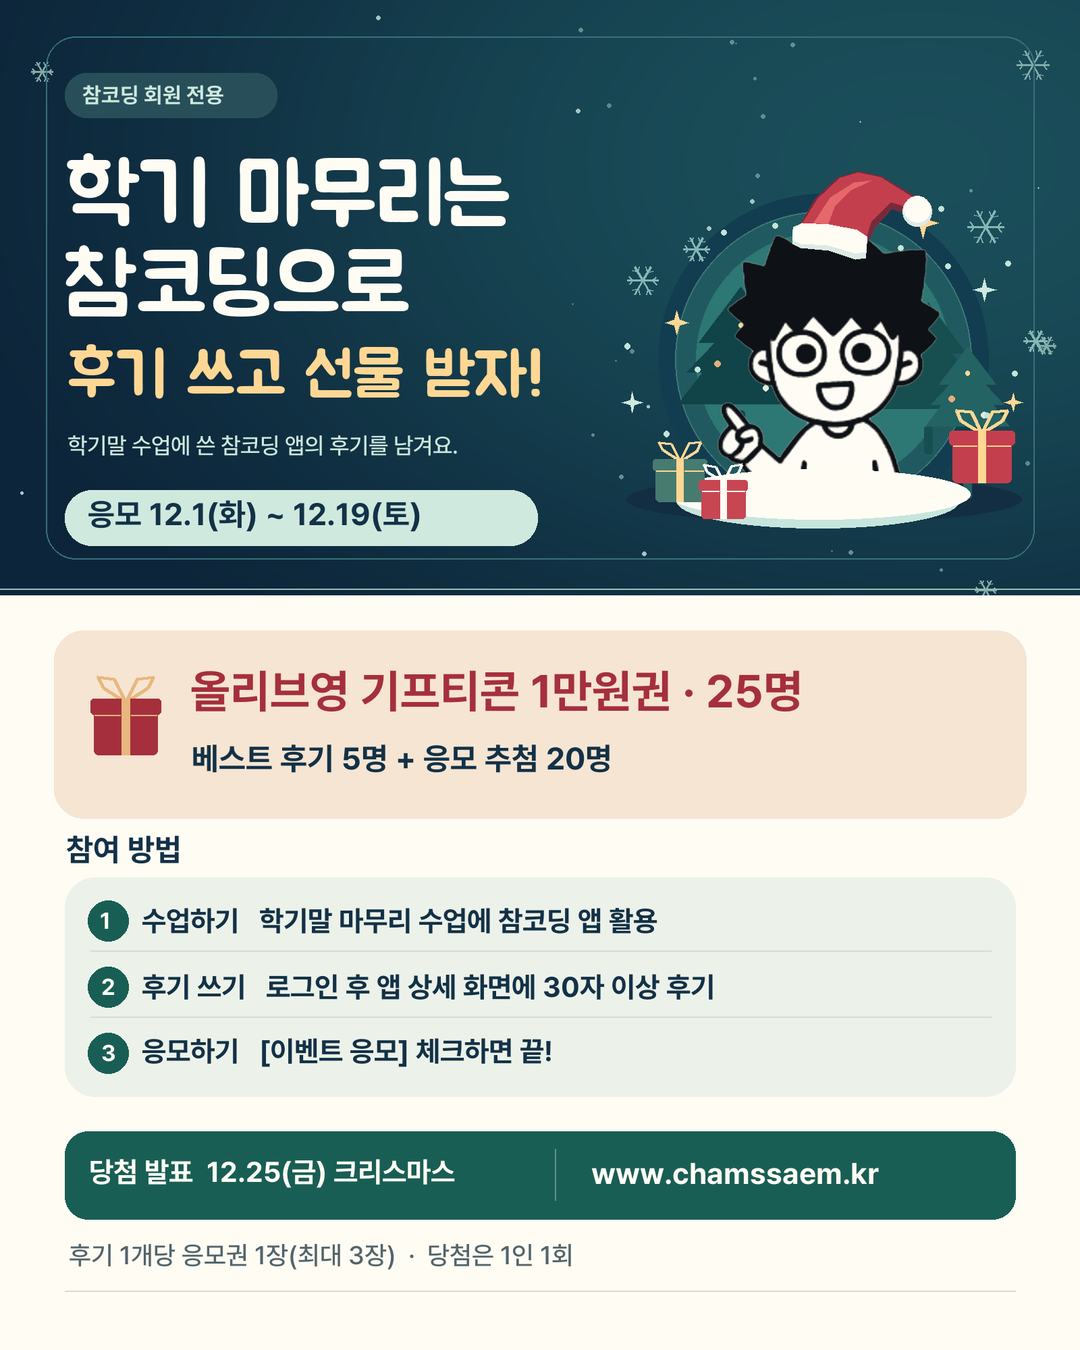
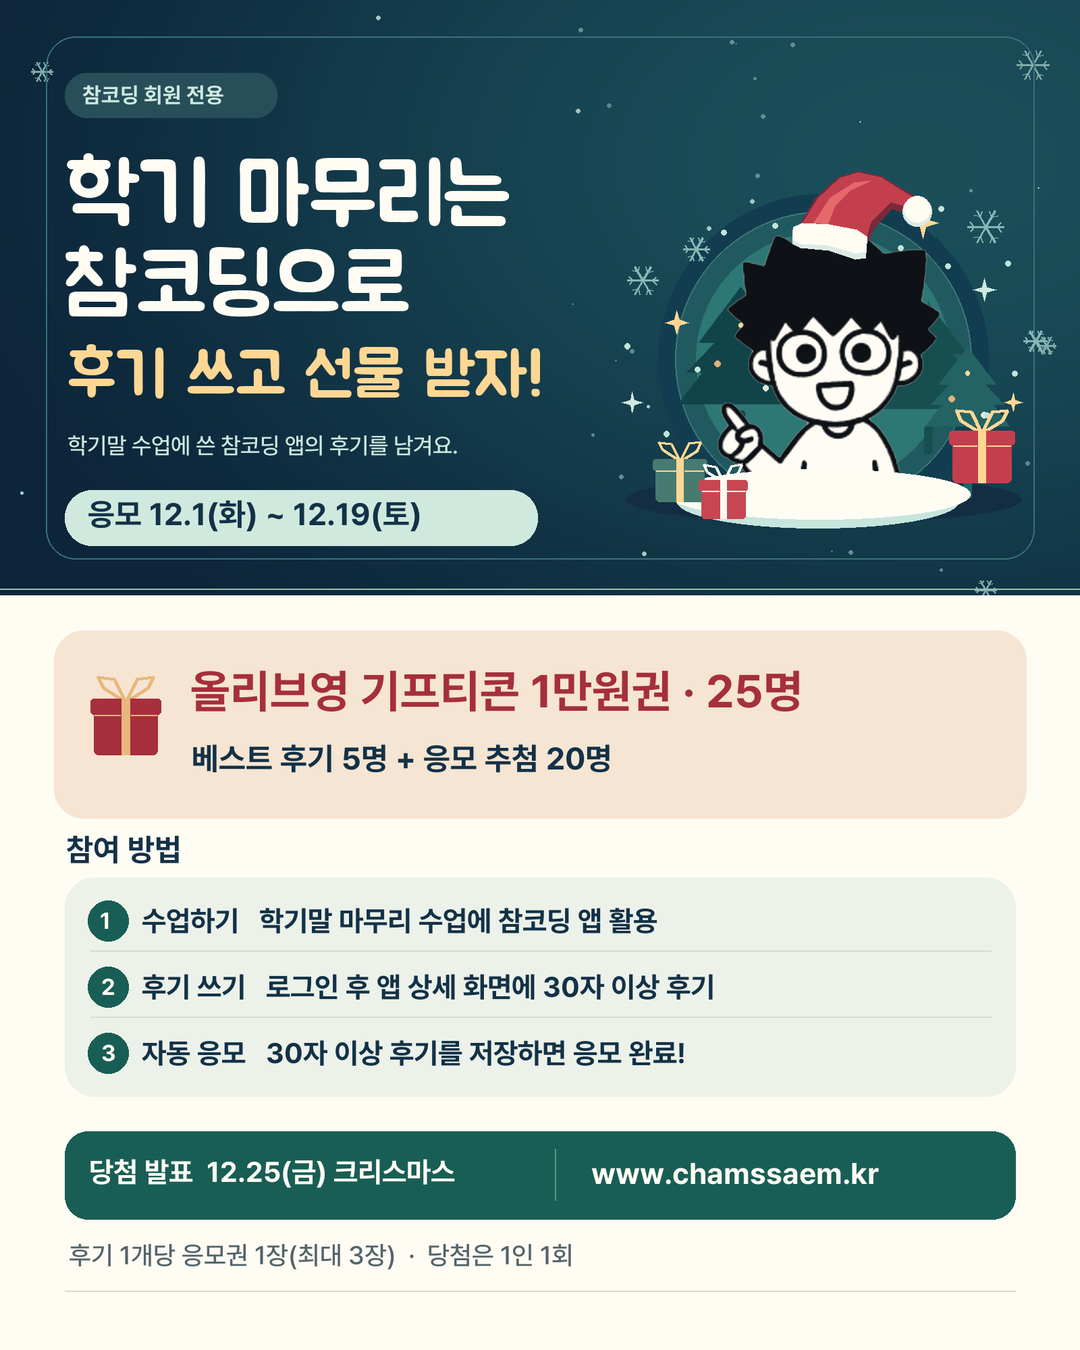
Clarify automatic event entry and add daily popup dismissal

Changed region(s): [[0.1222, 0.7467, 0.6417, 0.8089]]

diff --git a/index.html b/index.html
@@ -614,12 +614,15 @@ body{padding-left:var(--side)}
 <dialog class="event-dialog" id="semesterReviewDialog" aria-labelledby="semesterReviewTitle" aria-describedby="semesterReviewNotice">
   <header class="event-dialog-header">
     <h2 id="semesterReviewTitle">학기말 수업 후기 이벤트</h2>
-    <form method="dialog"><button class="btn line" type="submit" autofocus>닫기</button></form>
   </header>
-  <p class="event-dialog-notice" id="semesterReviewNotice">이벤트 응모 기능은 준비 중입니다.</p>
+  <p class="event-dialog-notice" id="semesterReviewNotice">응모 기간에 로그인하고 30자 이상 후기를 남기면 <strong>자동으로 응모됩니다.</strong></p>
   <section class="event-dialog-content" aria-label="이벤트 안내">
-    <img data-src="/assets/events/semester-review-2026-popup.png" width="1080" height="1350" alt="참코딩 회원 전용. 올리브영 기프티콘 1만원권을 베스트 후기 5명과 추첨 20명에게 드립니다. 12월 1일부터 19일까지 학기말 수업에 참코딩 앱을 활용하고, 로그인 후 앱 상세에서 30자 이상 후기를 작성해 이벤트 응모를 체크하세요. 후기당 응모권 1장, 최대 3장, 1인 1회 당첨. 12월 25일 발표.">
+    <img data-src="/assets/events/semester-review-2026-popup.png?v=2" width="1080" height="1350" alt="참코딩 회원 전용. 올리브영 기프티콘 1만원권을 베스트 후기 5명과 추첨 20명에게 드립니다. 12월 1일부터 19일까지 학기말 수업에 참코딩 앱을 활용하고, 로그인 후 앱 상세에서 30자 이상 후기를 저장하면 자동 응모됩니다. 후기당 응모권 1장, 최대 3장, 1인 1회 당첨. 12월 25일 발표.">
   </section>
+  <form class="event-dialog-footer" method="dialog">
+    <label><input id="semesterReviewHideToday" type="checkbox"> 오늘 하루 동안 보지 않기</label>
+    <button class="btn line" type="submit" autofocus>닫기</button>
+  </form>
 </dialog>
 <div class="dim" id="dim"></div>
 <div class="sheet app-sheet" id="appSheet" role="dialog" aria-modal="true"></div>
@@ -838,21 +841,39 @@ if (!matchMedia('(prefers-reduced-motion:reduce)').matches)
 const hero = $('#hero'), semesterReviewDialog = $('#semesterReviewDialog');
 const semesterReviewDeadline = Date.parse('2026-12-20T00:00:00+09:00');
 const semesterReviewSessionKey = 'semester-review-2026-popup-seen';
+const semesterReviewHiddenKey = 'semester-review-2026-popup-hidden-day';
+const semesterReviewCalendar = new Intl.DateTimeFormat('ko-KR', {timeZone:'Asia/Seoul', dateStyle:'short'});
+const semesterReviewDay = () => semesterReviewCalendar.format(new Date());
+const semesterReviewHideToday = $('#semesterReviewHideToday');
 let heroTimer = 0, heroIndex = 0;
 let semesterReviewTrigger = null;
 
+function semesterReviewHiddenToday(day){
+  try { return localStorage.getItem(semesterReviewHiddenKey) === day; }
+  catch { return false; }
+}
+semesterReviewHideToday.addEventListener('change', ()=>{
+  try {
+    if (semesterReviewHideToday.checked) localStorage.setItem(semesterReviewHiddenKey, semesterReviewDay());
+    else localStorage.removeItem(semesterReviewHiddenKey);
+  } catch { /* 저장이 막혀도 팝업은 닫을 수 있다. */ }
+});
 function showSemesterReview(trigger = null){
   if (Date.now() >= semesterReviewDeadline || semesterReviewDialog.open) return;
+  const day = semesterReviewDay();
   semesterReviewTrigger = trigger;
+  semesterReviewHideToday.checked = semesterReviewHiddenToday(day);
   const poster = semesterReviewDialog.querySelector('img');
   if (!poster.hasAttribute('src')) poster.src = poster.dataset.src;
   semesterReviewDialog.showModal();
-  try { sessionStorage.setItem(semesterReviewSessionKey, '1'); } catch { /* 저장이 막혀도 팝업은 열 수 있다. */ }
+  try { sessionStorage.setItem(semesterReviewSessionKey, day); } catch { /* 저장이 막혀도 팝업은 열 수 있다. */ }
 }
 function showFirstVisitSemesterReview(){
   // 인증 메일과 관리자 설정은 자체 대화상자에서 처리한다.
   if (location.hash || new URLSearchParams(location.search).has('email-confirmed')) return;
-  try { if (sessionStorage.getItem(semesterReviewSessionKey)) return; } catch { /* 저장소가 차단된 경우 */ }
+  const day = semesterReviewDay();
+  if (semesterReviewHiddenToday(day)) return;
+  try { if (sessionStorage.getItem(semesterReviewSessionKey) === day) return; } catch { /* 저장소가 차단된 경우 */ }
   showSemesterReview();
 }
 semesterReviewDialog.addEventListener('click', e=>{
@@ -894,9 +915,9 @@ function renderHero(){
     </article>`);
   const hasSemesterReview = Date.now() < semesterReviewDeadline;
   if (hasSemesterReview) slides.unshift(`
-    <button type="button" class="hero-slide event-slide" data-semester-review aria-haspopup="dialog" aria-controls="semesterReviewDialog" aria-label="학기말 수업 후기 이벤트 자세히 보기">
-      <img src="/assets/events/semester-review-2026-banner.png" width="1200" height="300" alt="">
-      <span class="event-slide-caption" aria-hidden="true"><b>올리브영 기프티콘 1만원권 · 25명</b><span>12.1(화) ~ 12.19(토) · 자세히 보기</span></span>
+    <button type="button" class="hero-slide event-slide" data-semester-review aria-haspopup="dialog" aria-controls="semesterReviewDialog" aria-label="학기말 수업 후기 이벤트 · 30자 이상 후기 자동 응모 · 자세히 보기">
+      <img src="/assets/events/semester-review-2026-banner.png?v=2" width="1200" height="300" alt="">
+      <span class="event-slide-caption" aria-hidden="true"><b>올리브영 기프티콘 1만원권 · 25명</b><span>30자 이상 후기 자동 응모</span><span>12.1(화) ~ 12.19(토) · 자세히 보기</span></span>
       <span class="event-slide-cta" aria-hidden="true">이벤트 자세히 보기</span>
     </button>`);
   hero.hidden = !slides.length;

diff --git a/chamcoding-ui.css b/chamcoding-ui.css
@@ -529,20 +529,40 @@ html:has(.event-dialog[open]) { overflow: hidden; }
 }
 .event-dialog[open] { display: flex; flex-direction: column; }
 .event-dialog::backdrop { background: rgb(17 24 39 / .65); }
-.event-dialog-header {
-  display: flex;
-  align-items: center;
-  justify-content: space-between;
-  gap: .75rem;
-  padding: .75rem 1rem;
-}
+.event-dialog-header { flex: none; padding: .75rem 1rem; }
 .event-dialog-header h2 { font-size: 1rem; }
-.event-dialog-header .btn { height: 2.25rem; white-space: nowrap; }
-.event-dialog-content { overflow: auto; overscroll-behavior: contain; }
+.event-dialog-content { min-height: 0; overflow: auto; overscroll-behavior: contain; }
 .event-dialog-content img { display: block; width: 100%; height: auto; }
 .event-dialog-notice {
+  flex: none;
   padding: .5rem 1rem;
   background: var(--brand-soft);
   color: var(--brand-ink);
   font-size: .875rem;
+  word-break: keep-all;
 }
+.event-dialog-footer {
+  display: flex;
+  flex: none;
+  align-items: center;
+  justify-content: space-between;
+  gap: .75rem;
+  padding: .375rem 1rem;
+  border-top: 1px solid var(--line);
+}
+.event-dialog-footer label {
+  display: flex;
+  align-items: center;
+  gap: .5rem;
+  min-height: 2.75rem;
+  font-size: .875rem;
+  cursor: pointer;
+}
+.event-dialog-footer input {
+  flex: none;
+  width: 1rem;
+  height: 1rem;
+  accent-color: var(--brand);
+}
+.event-dialog-footer input:focus-visible { outline: 2px solid var(--focus-ring); outline-offset: 2px; }
+.event-dialog-footer .btn { min-height: 2.75rem; white-space: nowrap; }

diff --git a/README.md b/README.md
@@ -49,7 +49,7 @@
 | 홈 카드 | 대표 썸네일 90px(모바일 67px), 카드 최소 폭 300px |
 | 상세 스크린샷 | 마우스가 있는 화면에서 좌우 스크롤 버튼(‹ ›) 표시, 끝에 닿으면 숨김 |
 | 홍보 배너 | 본문 최상단. 관리자가 지정한 추천 앱을 6초마다 번갈아 표시, 지정한 앱이 없으면 인기 1위 |
-| 학기말 후기 이벤트 | 2026년 12월 19일 23:59(한국 시간)까지 홈 배너 첫 장에 표시. 탭 세션에서 처음 방문하면 팝업을 열고, 이후에는 배너를 누르면 다시 열림. 이미지 원본은 `assets/events/`. 팝업에 응모 기능 준비 중 안내를 표시 |
+| 학기말 후기 이벤트 | 2026년 12월 19일 23:59(한국 시간)까지 홈 배너 첫 장에 표시. 각 탭에서 그날 처음 방문하면 팝업을 열고, **오늘 하루 동안 보지 않기**를 선택하면 같은 브라우저에서 한국 시간 자정까지 자동으로 열지 않음. 배너를 누르면 다시 볼 수 있음. 이미지 원본은 `assets/events/` |
 | 앱 상세 | 상단 사용하기 버튼(URL 없는 예시 앱은 비활성화) → 정보 줄 **교과 · 카테고리 · 개발자 · 적용 학년** → 스크린샷(캡션 미표시) → 소개 영상 → 설명 → 리뷰 · 제작자의 다른 앱 → 새로운 소식 |
 | 카테고리 | 교과 교육·계기 교육·아침활동·교실놀이·기타. 사이드바 분류를 누르면 아래 **초등학교·중학교·고등학교** 목록의 높이가 0.3초 동안 늘어나고, 다른 분류를 고르면 이전 목록은 접힙니다. 같은 분류를 다시 누르면 펼침·접힘을 전환하며 선택한 필터는 유지합니다. 학교급을 고르면 해당 웹앱만 보이고 같은 학교급을 다시 누르면 해제합니다. 닫힌 목록은 키보드 초점에서 제외하며 움직임 줄이기 설정을 따릅니다. |
 | 적용 학년 | 업로드·앱 개발 요청 폼에서 학교급(초·중·고)과 시작·끝 학년을 골라 `초등학교 4-6학년`처럼 저장. 학교급 분류는 이 글자 앞부분으로 판단하며, 학교급이 없는 기존 값(예: `5-6학년`, `전학년`)은 초등학교로 봄 |
@@ -58,6 +58,8 @@
 | 인기순 | 사용하기·체험하기 클릭 수(같은 접속·같은 앱은 10분에 1회)로 순위를 매김. 인기순을 고르면 정렬 버튼(최신순·인기순·업데이트순) 바로 아래에 같은 크기의 **일별·주별·월별** 버튼이 나오고(기본 주별), 오늘·최근 7일·최근 30일 사용 횟수로 정렬. 블록 오른쪽 위에는 바로 앞 같은 길이 기간(어제·그 전 7일·그 전 30일) 대비 변동(▲ ▼ – NEW) 표시 |
 | 기타 문의 | 사이드바 '함께 만들기'의 '기타 문의'. 로그인 없이 이름(선택)·연락 이메일·제목·내용을 보내며 시간당 5회 제한. 관리자 작업 창 '기타 문의' 탭에서 접수·답변 완료·종료와 메모 관리 |
 | 관리자 로그인 | 헤더 버튼 없음. 회원 로그인 창(로그인 상태면 내 계정 창) 아래 '관리자로 로그인' 버튼 |
+
+학기말 후기 이벤트 응모는 2026년 12월 1~19일(한국 시간)에 로그인한 회원이 앱 상세에서 저장한 30자 이상 공개 후기 자체로 받습니다. 기존 `tools_reviews`에서 회원별로 새로 등록한 후기 중 등록 순으로 최대 3건을 집계하고, 당첨은 회원당 1회입니다.
 
 업로드 요청과 관리자 전용 **요청 검토 · 앱 관리**는 별도 메뉴입니다. 관리자 로그인 상태로 업로드 요청을 열어도 영역 구분을 유지합니다.
 

diff --git a/WORK_LOG.md b/WORK_LOG.md
@@ -8,7 +8,9 @@
 - 확인: Node 24 테스트 33개, 정적 빌드, diff 검사 통과. 격리 Chrome에서 데스크톱·모바일·소형·가로 화면, 두 이미지 로드, 팝업 닫기·재열기·키보드 초점, 기존 앱 배너 회전·앱 상세 열기, 응모 종료 경계를 확인했다.
 - 작업 시작 기준: HEAD와 origin/main `e1ccf4ce66e8ed3e3486f10605d15b34deb951ce` 일치. 같은 SHA의 Vercel Production success, 운영 홈·공개 목록 API HTTP 200.
 - 운영 반영: GitHub main `bdda62acb2e9364f2a01792a713cdf79971ffedf`의 Vercel 상태와 [Production 배포](https://vercel.com/konw7377-1627s-projects/tools/6x8YgRcHxrg91iRP3Q14zsJXq6cc) 성공을 확인했다. 운영 홈·공개 목록·두 이미지 HTTP 200, HTML과 이미지가 커밋과 동일하다. 운영 Chrome의 데스크톱·휴대폰에서 최초 팝업, 닫기, 배너 재열기, 기존 앱 상세까지 확인했다.
-- 남은 일: 앱 후기 폼의 이벤트 응모 접수 기능은 별도 작업이다. 팝업에서 응모 기능 준비 중을 안내한다.
+- 이어서 자동 응모 안내와 팝업 하단을 수정했다. 응모 기간에 저장한 30자 이상 회원 후기 자체를 응모로 받는다. 왼쪽 **오늘 하루 동안 보지 않기**는 같은 브라우저의 새 탭에도 적용되고 한국 시간 자정에 초기화된다. 오른쪽 **닫기**를 사용하거나 배너에서 직접 열 수 있다.
+- 후속 확인: 시작 기준 SHA `4efec014933cef462f0f81fe34616c451fa9d4f3`의 Vercel Production 성공과 운영 홈·공개 목록 HTTP 200을 확인했다. Node 24 테스트 33개·정적 빌드·diff 검사 통과. 격리 Chrome에서 팝업 하단 좌우 배치, 키보드 체크, 새 탭 숨김, 한국 시간 자정 이후 표시, 기존 앱 배너를 확인했다.
+- 남은 일: 이벤트가 끝나면 회원별 3건까지 대상 후기를 집계한다.
 
 
 ## 통통 리듬 로고·캐릭터 중앙 정렬 (2026-11-19)
